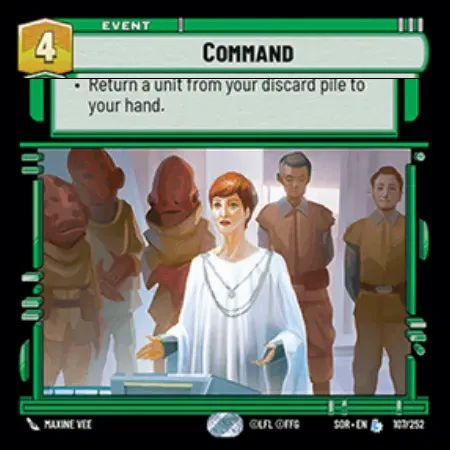
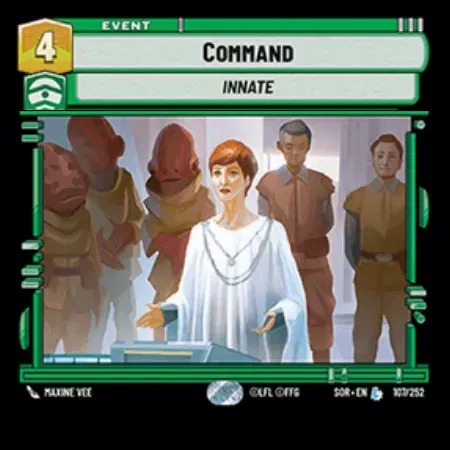
Event image conversion

diff --git a/zzImageConverter.php b/zzImageConverter.php
@@ -50,12 +50,12 @@ function CheckImage($cardID, $url, $definedType, $isBack=false)
 
       
       if($definedType == "Event") {
-        $imageTop = imagecrop($image, ['x' => 0, 'y' => 0, 'width' => 450, 'height' => 78]);
-        $imageBottom = imagecrop($image, ['x' => 0, 'y' => 256, 'width' => 450, 'height' => 628]);
+        $imageTop = imagecrop($image, ['x' => 0, 'y' => 0, 'width' => 450, 'height' => 110]);
+        $imageBottom = imagecrop($image, ['x' => 0, 'y' => 320, 'width' => 450, 'height' => 628]);
   
         $dest = imagecreatetruecolor(450, 450);
-        imagecopy($dest, $imageTop, 0, 0, 0, 0, 450, 78);
-        imagecopy($dest, $imageBottom, 0, 79, 0, 0, 450, 372);
+        imagecopy($dest, $imageTop, 0, 0, 0, 0, 450, 110);
+        imagecopy($dest, $imageBottom, 0, 111, 0, 0, 450, 404);
       }
       else {
         $imageTop = imagecrop($image, ['x' => 0, 'y' => 0, 'width' => 450, 'height' => 372]);
